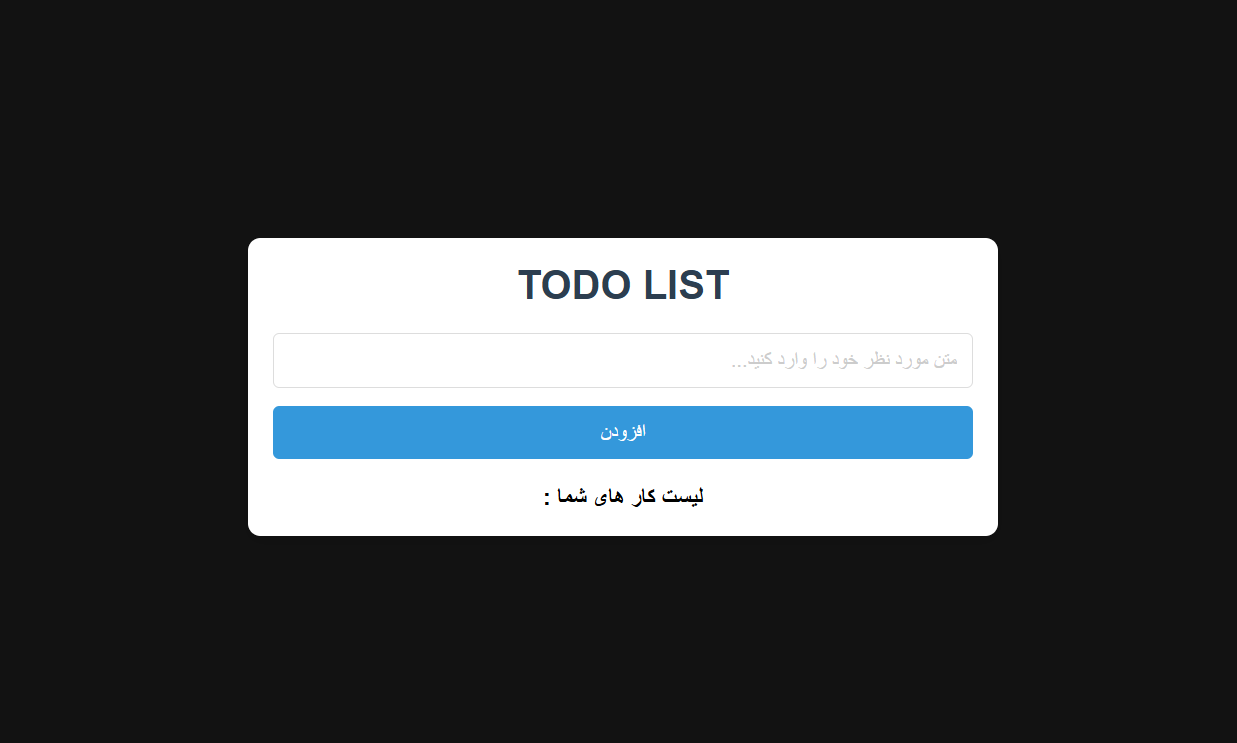
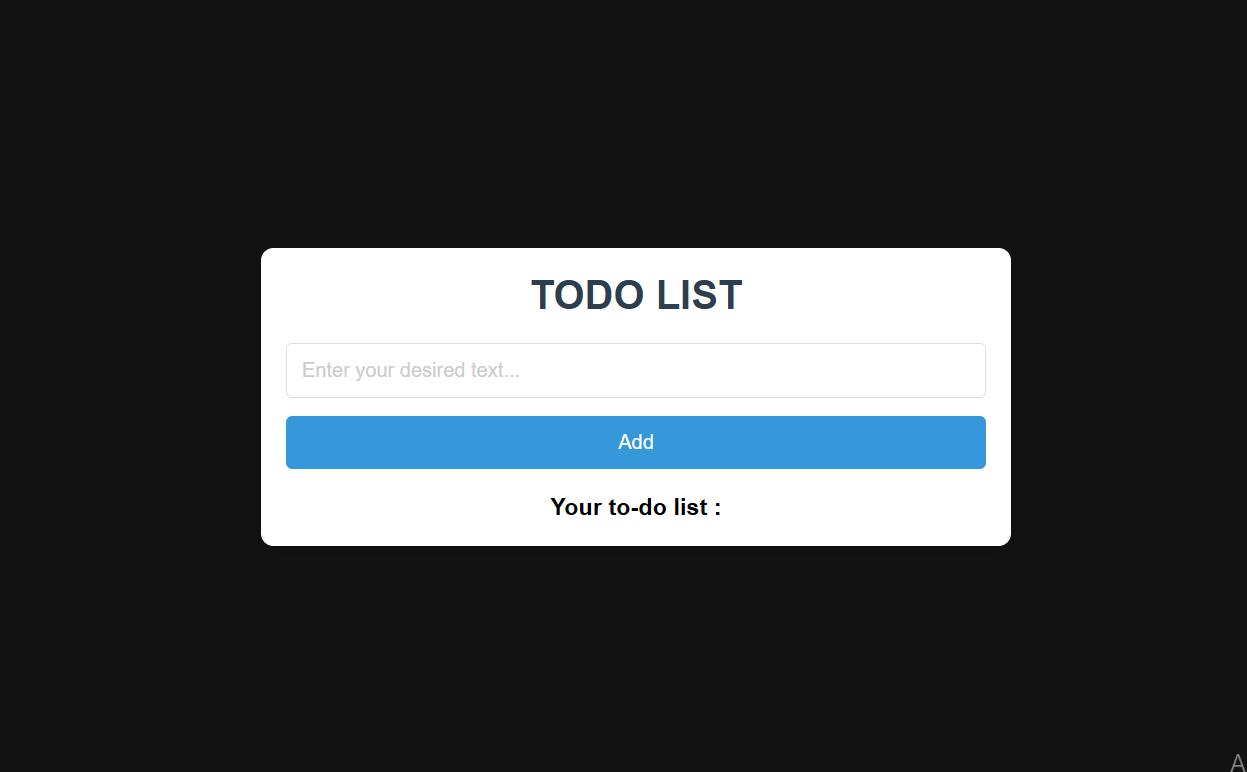
update projact

diff --git a/index.html b/index.html
@@ -6,17 +6,22 @@
         <link rel="stylesheet" href="css.css">
         <script src="https://kit.fontawesome.com/79be424806.js" crossorigin="anonymous"></script>
         <script src="https://ajax.googleapis.com/ajax/libs/jquery/3.7.1/jquery.min.js"></script>
+	<style>
+		body {
+			direction: ltr;
+		}
+	</style>
     </head>
     <body>
         <input type="checkbox" class="theme-switcher">
         <div class="todo">
             <form class="header" onsubmit="return false;">
                 <h1>ToDo List</h1>
-                <input type="text" id="input-box" class="todo-input" placeholder="متن مورد نظر خود را وارد کنید...">
-                <button class="btn-add" onclick="addtast()">افزودن</button>
+                <input type="text" id="input-box" class="todo-input" placeholder="Enter your desired text...">
+                <button class="btn-add" onclick="addtast()">Add</button>
             </form>
             <div class="todolist">
-                <h3>لیست کار های شما :</h3>
+                <h3>Your to-do list :</h3>
                 <p class="error-info"></p>
                 <ul id="task-list">
 

diff --git a/css.css b/css.css
@@ -72,7 +72,7 @@ body {
     background-color: #f4f7fc;
     margin: 0;
     font-family: 'Poppins', sans-serif;
-    direction: rtl;
+    direction: ltr;
 }
 
 /* برای ظاهر دکمهها و قسمتهای مختلف */
